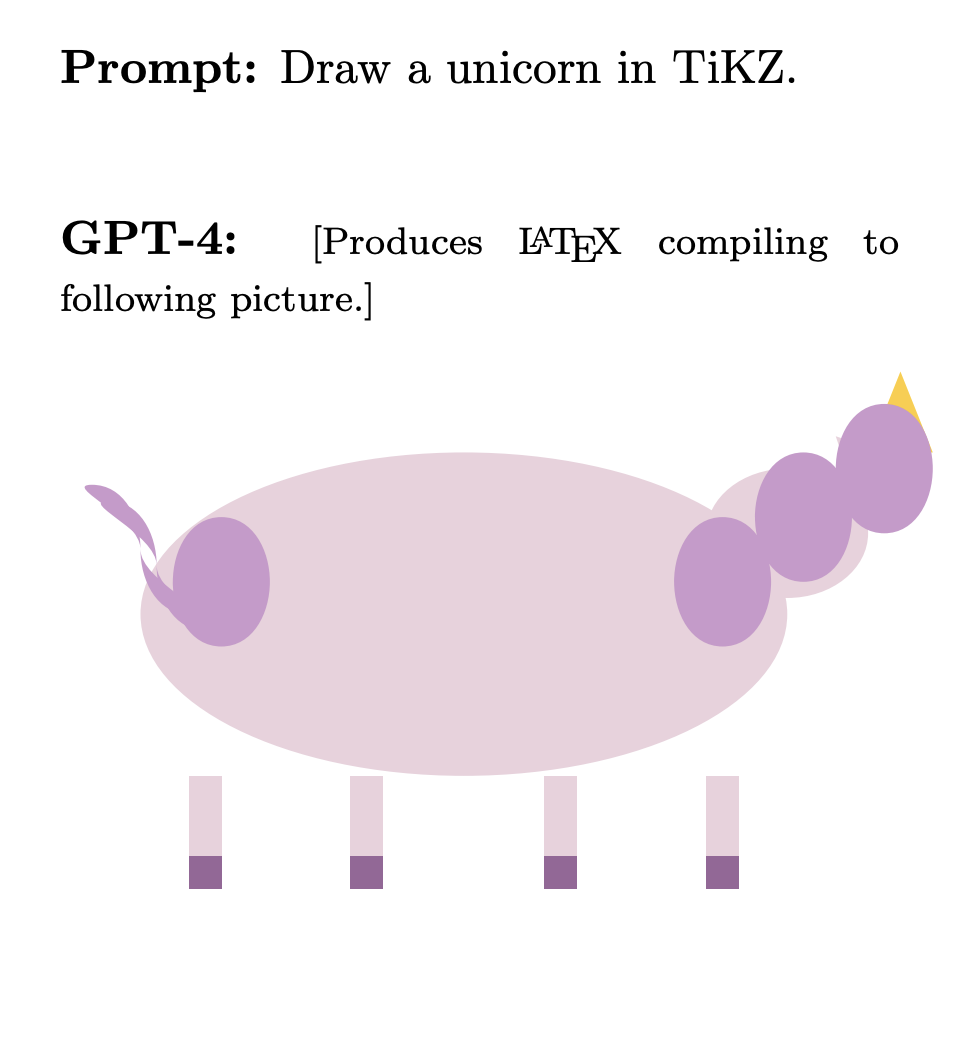
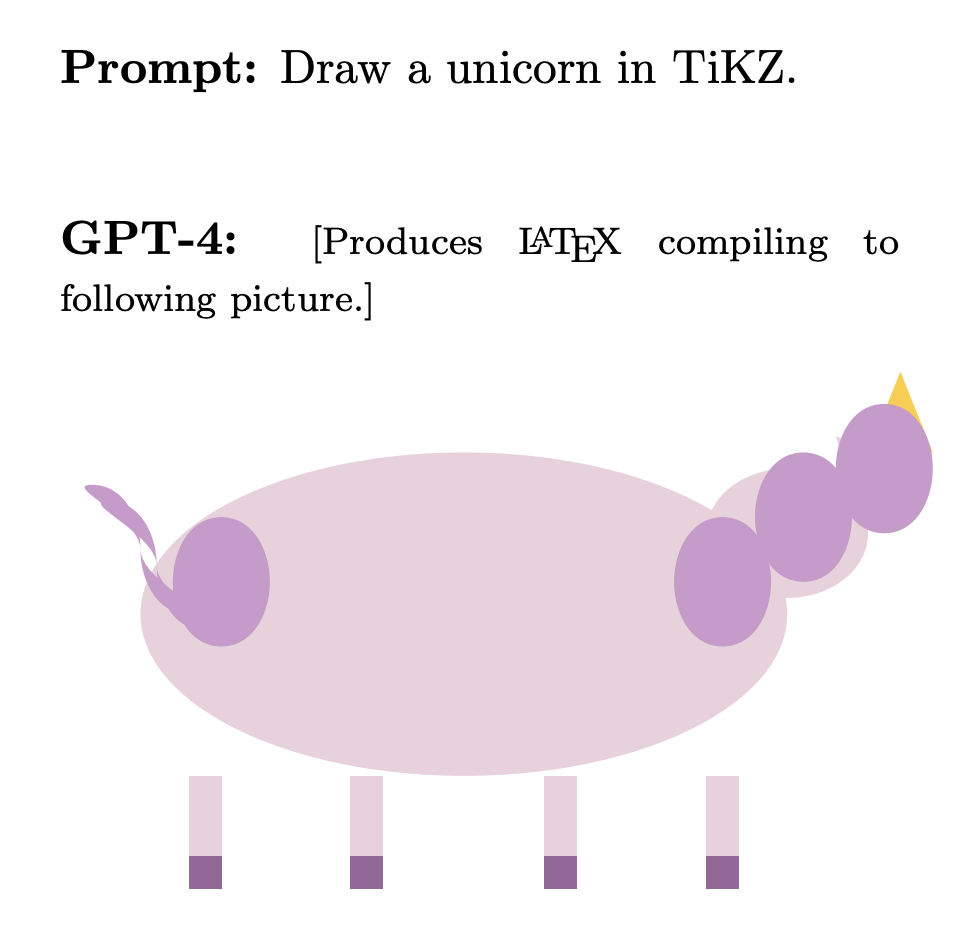
unicorn sizes

diff --git a/_posts/2023-04-09-sparks-of-agi.md b/_posts/2023-04-09-sparks-of-agi.md
@@ -87,7 +87,7 @@ One of the tasks the authors gave GPT-4 was to “draw a unicorn.” You might b
 
 <br>
 
-<img src="/img/Post8/unicorn.png" alt=unicorn style="max-width:75%;height:auto">
+<img src="/img/Post8/unicorn.png" alt=unicorn style="max-width:65%;height:auto">
 <div align="center">GPT-4 generates a unicorn in TiKZ</div>
 
 <br>
@@ -135,17 +135,17 @@ Here are some more amazing examples of GPT-4 demonstrating “visual comprehensi
 
 <br>
 
-<img src="/img/Post8/vision1.png" alt=vision1 style="max-width:75%;height:auto">
+<img src="/img/Post8/vision1.png" alt=vision1 style="max-width:65%;height:auto">
 <div align="center">SVGs generated by GPT-4 for the classes automobile, truck, cat, dog</div>
 
 <br>
 
-<img src="/img/Post8/vision2.png" alt=vision2 style="max-width:75%;height:auto">
+<img src="/img/Post8/vision2.png" alt=vision2 style="max-width:65%;height:auto">
 <div align="center">A reasonably-looking stick figure composed of the letters of O, H and Y</div>
 
 <br>
 
-<img src="/img/Post8/vision3.png" alt=vision3 style="max-width:75%;height:auto">
+<img src="/img/Post8/vision3.png" alt=vision3 style="max-width:65%;height:auto">
 <div align="center">Demonstration that GPT-4 can usually preserve
 the identity of both the object and the letter and combine them in a creative way
 </div>
